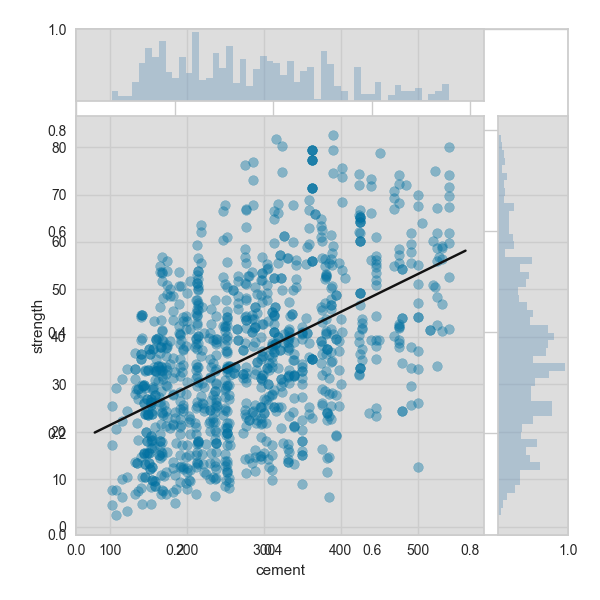
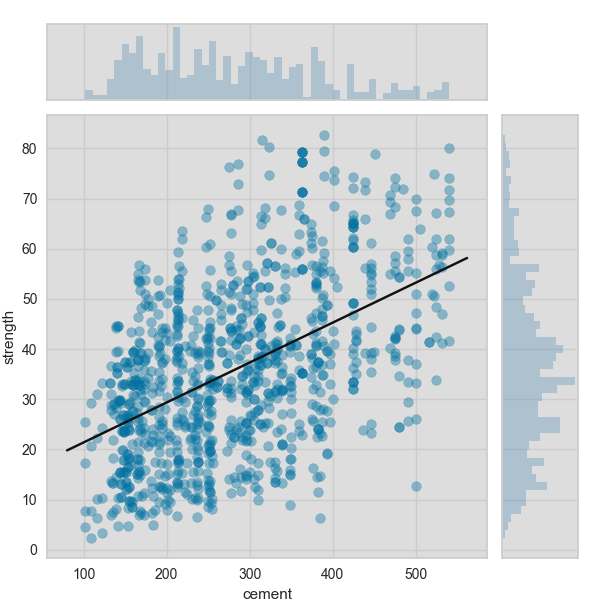
fixes jointplot image in the documentation to resolve #474

diff --git a/docs/api/features/jointplot.py b/docs/api/features/jointplot.py
@@ -5,12 +5,8 @@ from yellowbrick.features import JointPlotVisualizer
 
 
 def jointplot(X, y, outpath, **kwargs):
-    # Create a new figure and axes
-    fig = plt.figure()
-    ax = fig.add_subplot(111)
-
     # Create the visualizer
-    visualizer = JointPlotVisualizer(ax=ax, **kwargs)
+    visualizer = JointPlotVisualizer(**kwargs)
     visualizer.fit(X, y)
     visualizer.transform(X)
 
